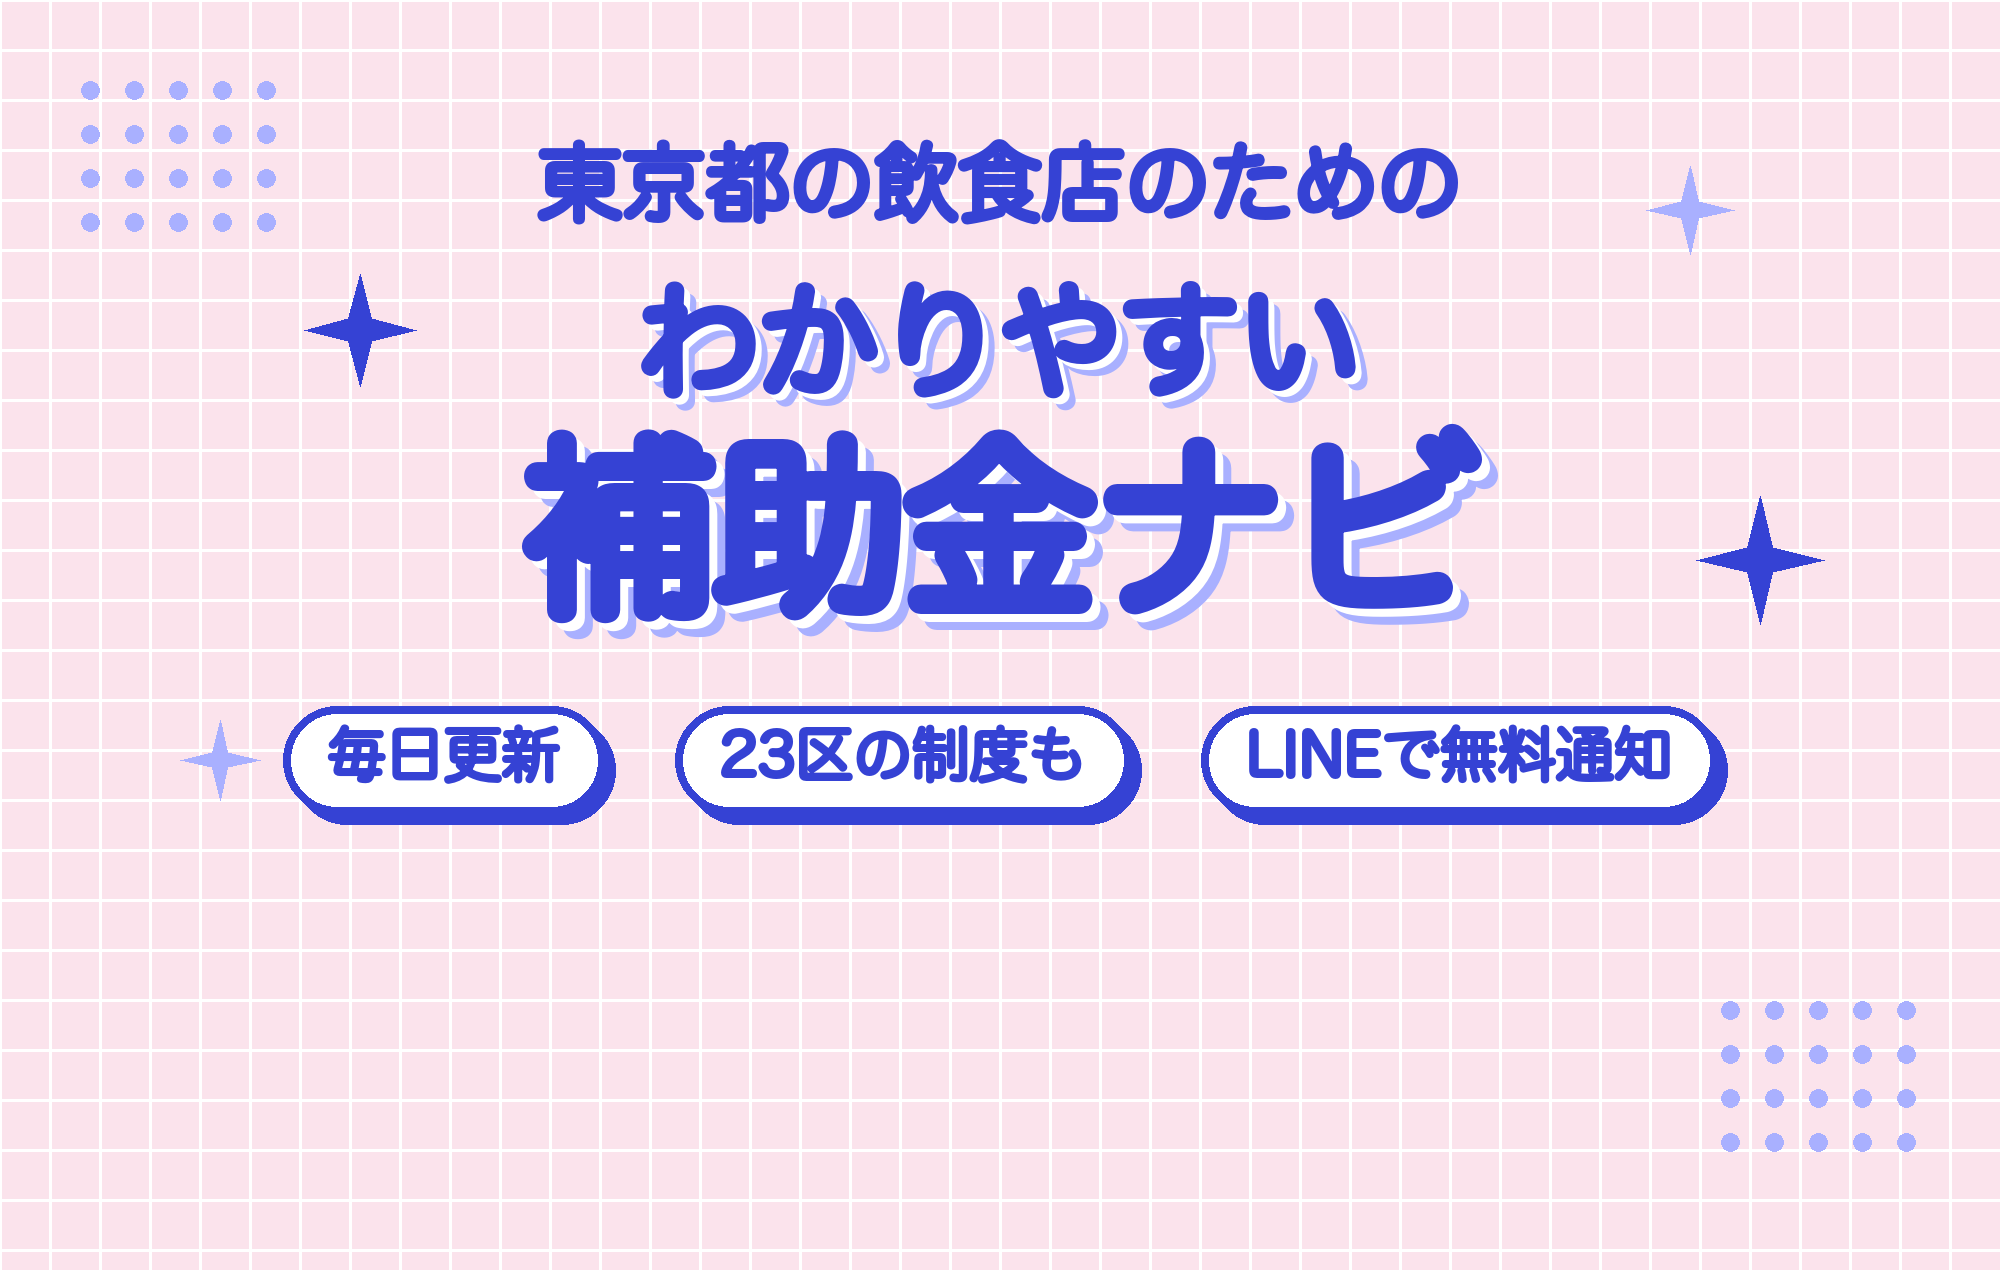
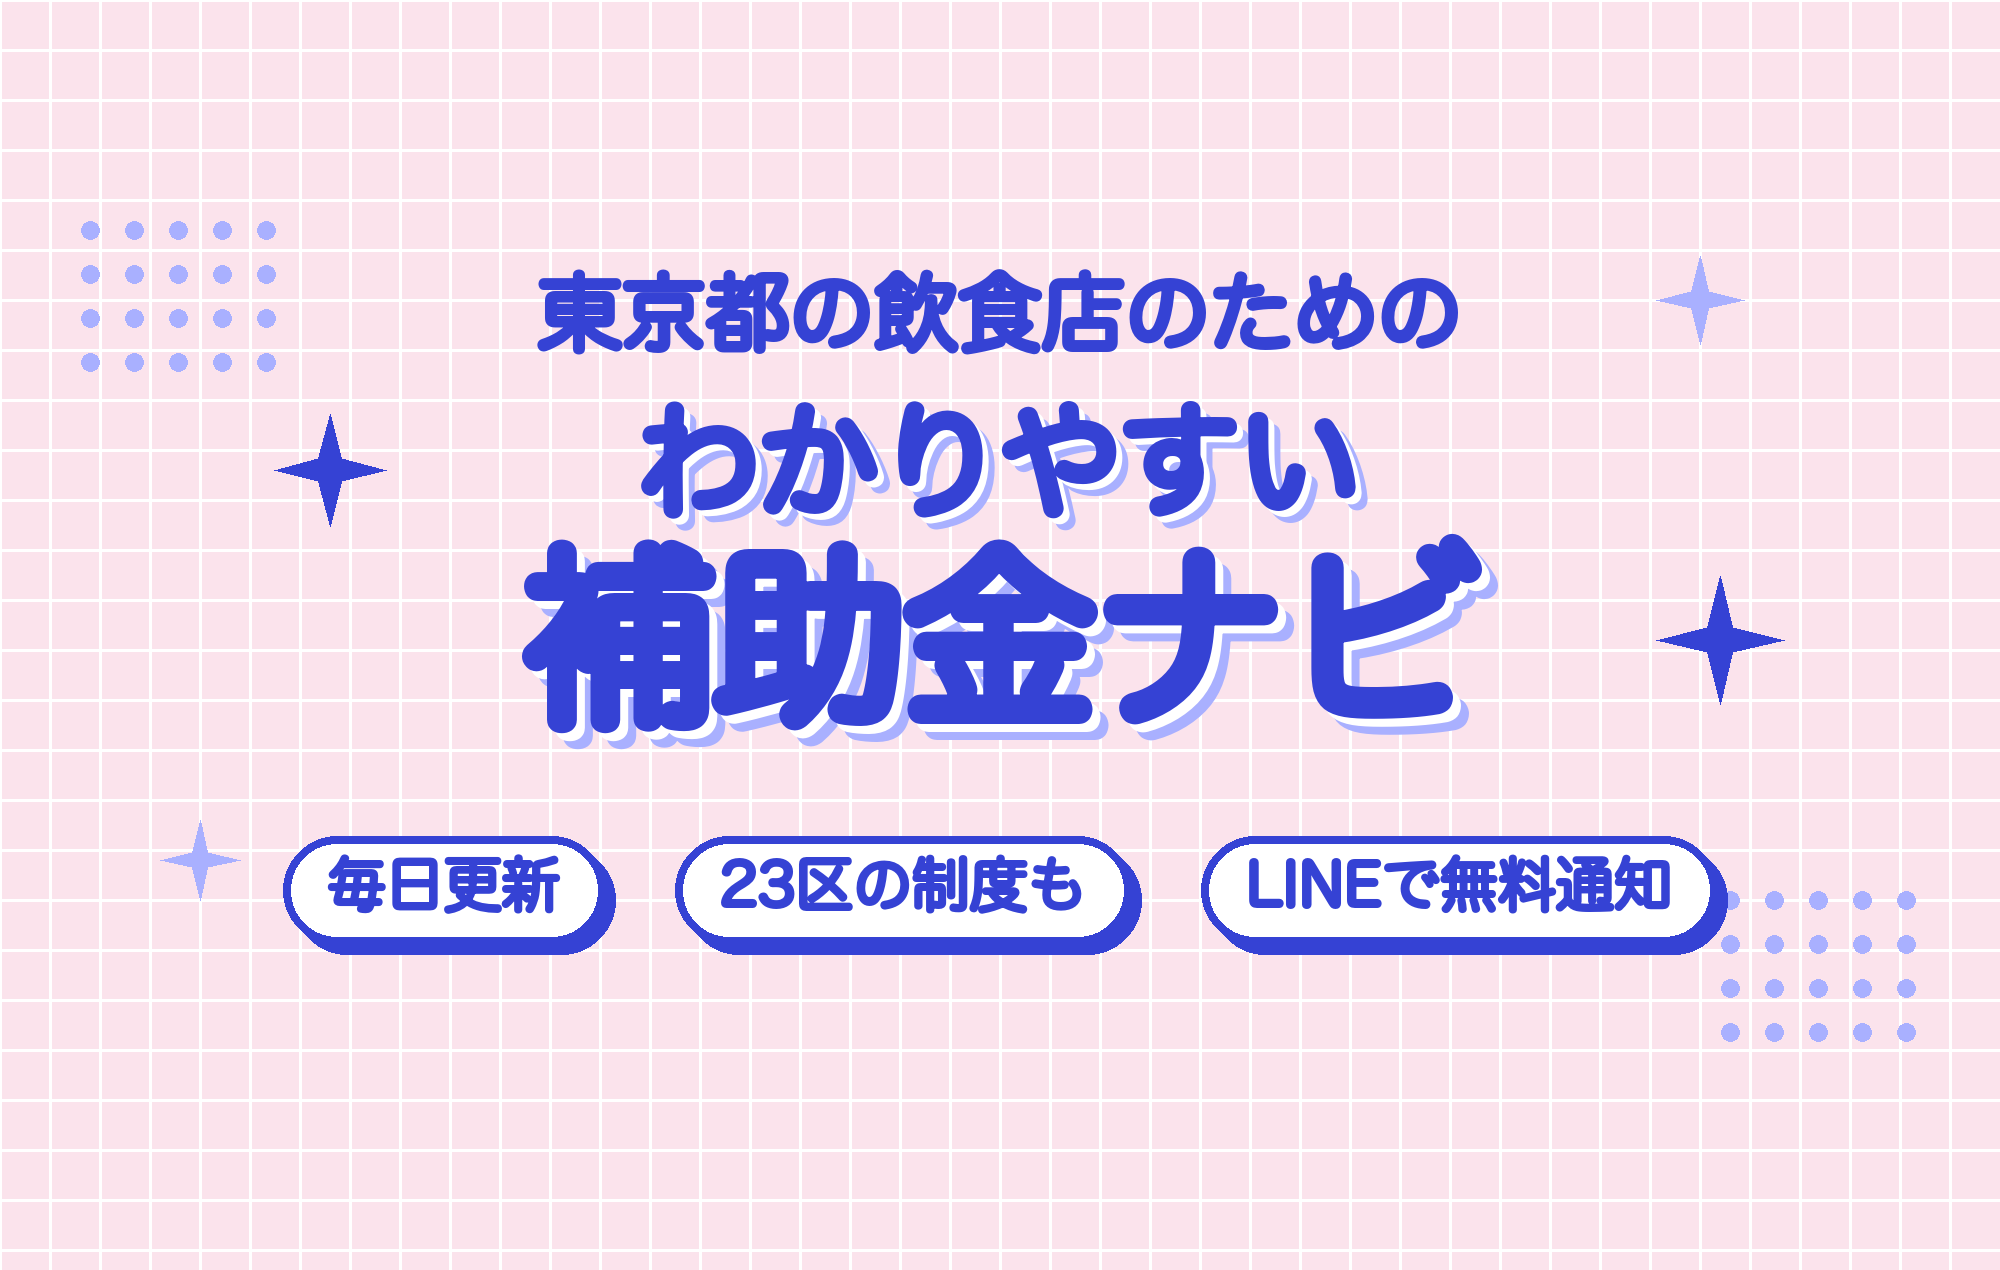
LINE背景画像を、実際に表示される中央の帯に収まる配置に修正
- アイコンを合成したプレビュー画像は削除（誤ってアップロードされるのを防ぐ）
- 見える範囲を確認する画像を追加

diff --git a/brand/make_line_cover.py b/brand/make_line_cover.py
@@ -1,5 +1,5 @@
 """LINE公式アカウントのプロフィール背景画像（推奨比率 1000×635 に合わせた 2000×1270）。
-サイト・アイコンと同じ、パステルピンクの方眼 × コバルトブルー。下の中央はアイコンが重なるので空けておく。"""
+サイト・アイコンと同じ、パステルピンクの方眼 × コバルトブルー。LINEのプロフィールでは上下が切れて横長（約2:1）で表示されるため、文字は中央の帯に収める。"""
 import math
 from pathlib import Path
 from PIL import Image, ImageDraw, ImageFont
@@ -60,17 +60,17 @@ for i in range(0, max(W, H), 50):
     d.line((0, i, W, i), fill=GRID, width=3)
 
 # 飾り（四隅の水玉とキラキラ）
-dots(d, 90, 90, 5, 4, 44, 9, BLUE_MID)
-dots(d, W - 270, H - 260, 5, 4, 44, 9, BLUE_MID)
-sparkle(d, 360, 330, 56, BLUE)
-sparkle(d, 1690, 210, 44, BLUE_MID)
-sparkle(d, 1760, 560, 64, BLUE)
-sparkle(d, 220, 760, 40, BLUE_MID)
+dots(d, 90, 230, 5, 4, 44, 9, BLUE_MID)
+dots(d, W - 270, 900, 5, 4, 44, 9, BLUE_MID)
+sparkle(d, 330, 470, 56, BLUE)
+sparkle(d, 1700, 300, 44, BLUE_MID)
+sparkle(d, 1720, 640, 64, BLUE)
+sparkle(d, 200, 860, 40, BLUE_MID)
 
 # 見出し
-ctext(d, W / 2, 140, "東京都の飲食店のための", 84, BLUE, stroke=3)
-ctext(d, W / 2, 280, "わかりやすい", 120, BLUE, stroke=5, shadow=[(12, BLUE_MID), (6, WHITE)])
-ctext(d, W / 2, 430, "補助金ナビ", 190, BLUE, stroke=8, shadow=[(16, BLUE_MID), (8, WHITE)])
+ctext(d, W / 2, 270, "東京都の飲食店のための", 84, BLUE, stroke=3)
+ctext(d, W / 2, 400, "わかりやすい", 120, BLUE, stroke=5, shadow=[(12, BLUE_MID), (6, WHITE)])
+ctext(d, W / 2, 540, "補助金ナビ", 190, BLUE, stroke=8, shadow=[(16, BLUE_MID), (8, WHITE)])
 
 # 特長のバッジ
 labels = ["毎日更新", "23区の制度も", "LINEで無料通知"]
@@ -78,22 +78,19 @@ widths = [d.textlength(t, font=font(58)) + 90 for t in labels]
 gap = 70
 x = W / 2 - (sum(widths) + gap * (len(labels) - 1)) / 2
 for t, w in zip(labels, widths):  # 3つを等間隔に並べる
-    pill(d, x + w / 2, 760, t)
+    pill(d, x + w / 2, 890, t)
     x += w + gap
-# 下の中央（アイコンが重なる場所）は空けておく
 
 img.save(OUT / "line_cover.png")
 small = img.resize((1000, 635), Image.LANCZOS)
 small.save(OUT / "line_cover_1000x635.png")
-# アイコンが重なったときの見え方の確認用（実際の表示位置は目安）
-prev = small.copy()
-icon = Image.open(OUT / "line_icon_memo.png").resize((220, 220), Image.LANCZOS)
-mask = Image.new("L", (220, 220), 0)
-ImageDraw.Draw(mask).ellipse((0, 0, 219, 219), fill=255)
-ring = Image.new("RGB", (232, 232), WHITE)
-rmask = Image.new("L", (232, 232), 0)
-ImageDraw.Draw(rmask).ellipse((0, 0, 231, 231), fill=255)
-prev.paste(ring, (500 - 116, 635 - 150), rmask)
-prev.paste(icon, (500 - 110, 635 - 144), mask)
-prev.save(OUT / "line_cover_preview.png")
+# 確認用プレビュー：LINEで見える範囲（中央の約2:1の帯）以外を暗くする。※LINEにはこのプレビューではなく line_cover_1000x635.png を設定する
+prev = small.convert("RGBA")
+shade = Image.new("RGBA", prev.size, (0, 0, 0, 0))
+sd = ImageDraw.Draw(shade)
+vis_h = int(1000 / 2.03)
+top = (635 - vis_h) // 2
+sd.rectangle((0, 0, 1000, top), fill=(0, 0, 0, 110))
+sd.rectangle((0, top + vis_h, 1000, 635), fill=(0, 0, 0, 110))
+Image.alpha_composite(prev, shade).convert("RGB").save(OUT / "line_cover_check_visible_area.png")
 print("ok")
